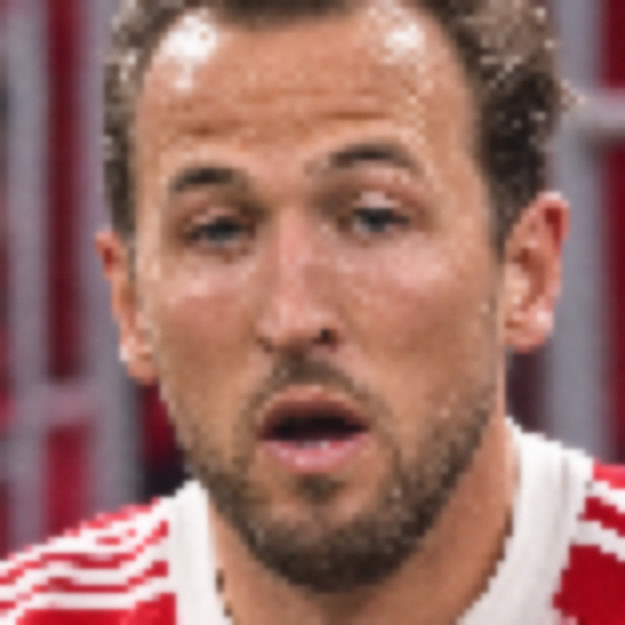
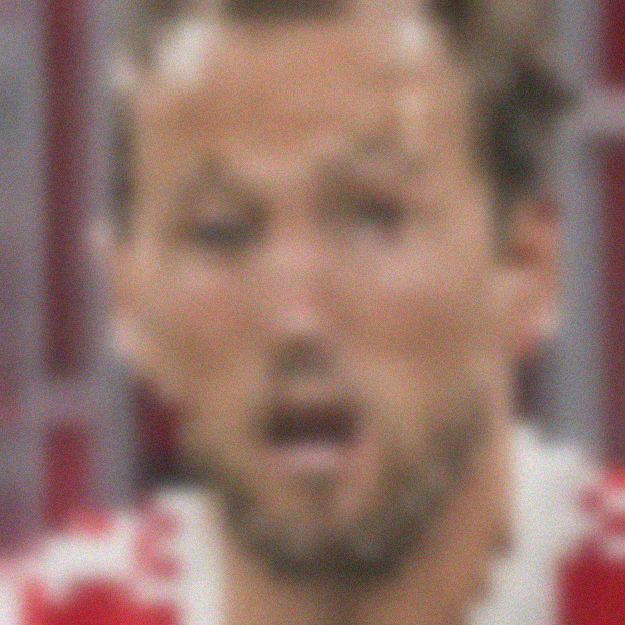
Update README example morph

diff --git a/README.md b/README.md
@@ -4,7 +4,7 @@ Generate `N` RIFE intermediate frames between two images.
 
 This project wraps [`rife-ncnn-vulkan`](https://github.com/nihui/rife-ncnn-vulkan), a portable RIFE build that includes the executable and model files for Windows, Linux, and macOS. It does not require CUDA or PyTorch.
 
-![Example morph](examples/face_morph_2s_blur.gif)
+<img src="examples/face_morph_2s_blur.gif" alt="Example morph" width="312">
 
 ## Quick Start
 
